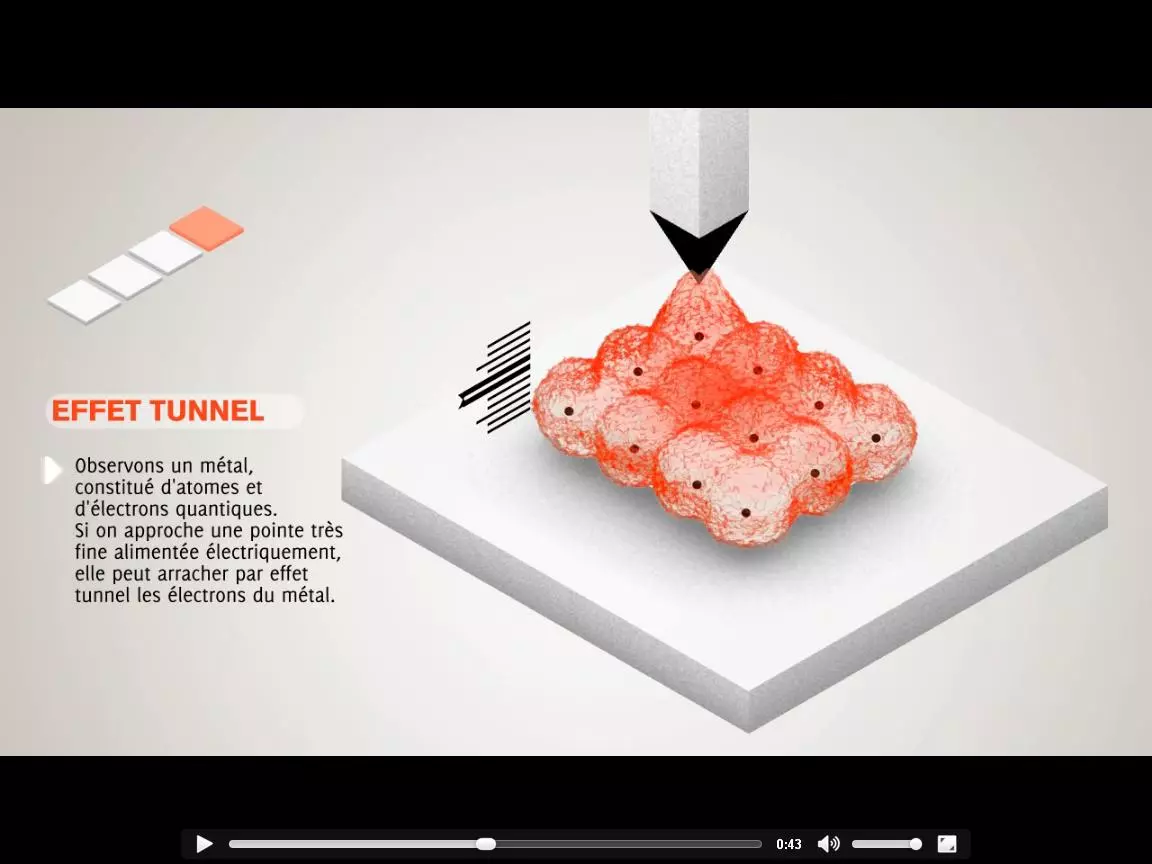
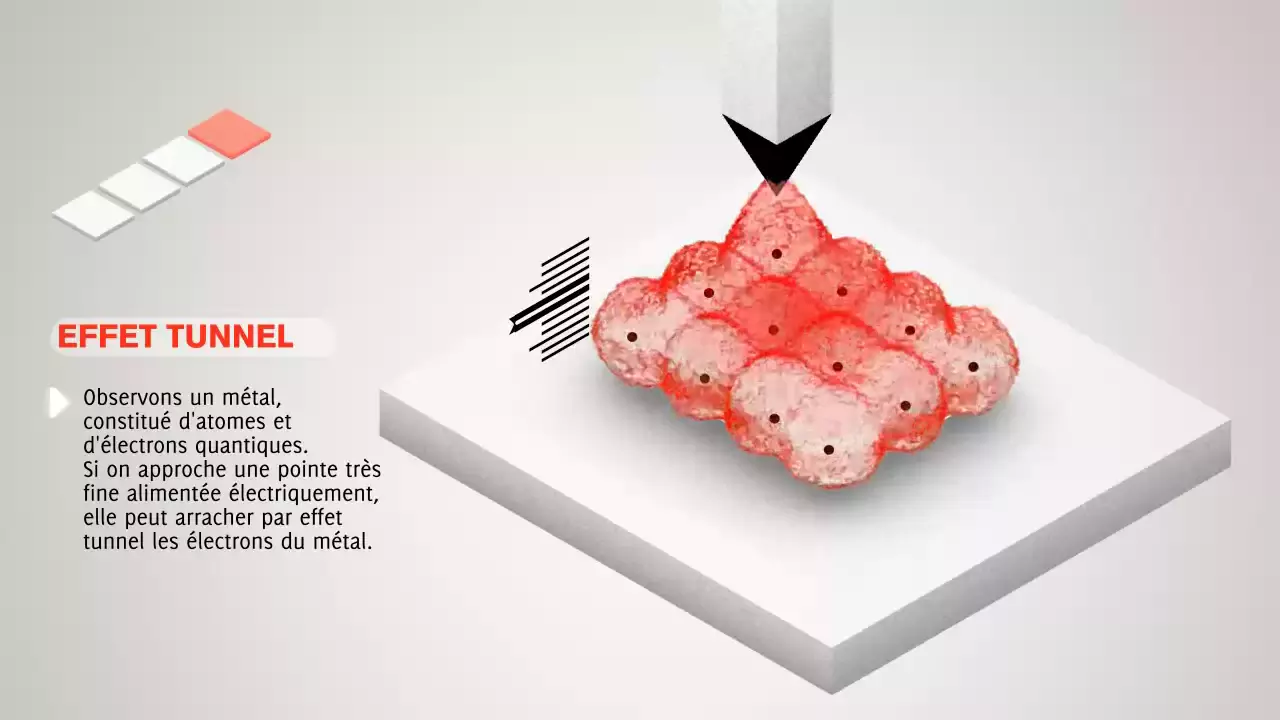
20 novembre 2015: travail sur l'émulsion d'huile dans de l'eau
Liste de matériel pour l'expérience:
* de l'eau + colorant bleu
* de l'huile
* un bécher
* une pipette graduée + pro-pipette
* une burette
* un agitateur magnétique
* microscope + caméra
* une pipette
* lame micrométrique

Protocole expérimental:
* Placer la partie mobile de l'agitateur magnétique dans le bécher
* Prélever `20,0 mL` d'eau à l'aide d'une pipette graduée, les déposer dans le bécher.
* En utilisant la burette, ajouter dans le bécher `2,50 mL` d'huile.
* On met en marche l'agitateur magnétique à une vitesse importante afin d'émulsionner le mélange hétérogène.
* Avec la pipette, prélever quelques gouttes de l'émulsion et les déposer sur la lame micrométrique.
* Observation au microscope de la lame micrométrique : prise de photos mettant en évidence l'échelle micrométrique des gouttes d'huile.

Changements apportés à la présentation:
* la police pour le texte est maintenant `Roboto`.
* les chemins d'accès sont maintenant relatifs et non absolus, pour permettre à la présentation de fonctionner sans serveur web.
* les images présentant le microscope à effet tunnel ont été retravaillées pour une meilleure expérience visuelle.
* les fichiers de police (`.woff2`) sont chargés via le CDN de Google (fonts.googleapis.com).

==> Objectif pour le 27/11/15 : contacter le Dr Fattal, réaliser l'expérience.

diff --git a/app/index.html b/app/index.html
@@ -3,12 +3,15 @@
 <head>
 	<meta http-equiv="Content-encoding" charset="utf-8"/>
 	<meta name="viewport" content="width=device-width,initial-scale=1"/>
-	<link rel="author" href="../README.md"/>
-	<link rel="stylesheet" href="/bower_components/material-design-lite/material.min.css"/>
-	<link rel="stylesheet" href="/bower_components/bootstrap/dist/css/bootstrap.min.css"/>
-	<script src="/bower_components/material-design-lite/material.min.js"></script>
+	<link rel="stylesheet" href="bower_components/material-design-lite/material.min.css"/>
+	<link rel="stylesheet" href="bower_components/bootstrap/dist/css/bootstrap.min.css"/>
+	<link rel="stylesheet" href='https://fonts.googleapis.com/css?family=Roboto'>
+	<script src="bower_components/material-design-lite/material.min.js"></script>
 	<title>TPE - Les nanotechnologies</title>
 	<style>
+body {
+	font-family: "Roboto", "Helvetica";
+}
 .quarante {
 	margin-top: 16px;
 	margin-right: 16px;
@@ -21,7 +24,7 @@
 .nanoparticules-dor {
 	height: 438px;
 	color: white;
-	background: url("/img/nanoparticules_dor.webp") center / cover;
+	background: url("img/nanoparticules_dor.webp") center / cover;
 }
 	</style>
 </head>
@@ -48,6 +51,8 @@
 						<div class="mdl-card__supporting-text">
 							<p class="quarante">40</p>
 							<p><b>instituts</b> mènent des recherches sur les nanotechnologies en France. on peut compter parmi cela l’Ecole Normale Supérieure ou l’Inserm. Les nano-particules seraient même présentes dans près de 1000 produits de consommation aujourd’hui en France.</p>
+						</div>
+						<div class="mdl-card__actions mdl-card--border">
 							<p><b>Source :</b> Banque d'Informations sur les Recherches - <a href="http://bir.inserm.fr">bis.inserm.fr</a></p>
 						</div>
 					</div>
@@ -61,6 +66,8 @@
 						</div>
 						<div class="mdl-card__supporting-text">
 							<p>Les nanotechnologies sont l’ensemble des domaines d’étude scientifiques et de fabrication de structures à l’échelle du nanomètre (de 1 à 1000 nm), c'est-à-dire à l’échelle atomique. Ces structures sont appelées nano-objets.  </p>
+						</div>
+						<div class="mdl-card__actions mdl-card--border">
 							<p><b>Source :</b> Encyclopédie Larousse - <a href="http://larousse.fr">larousse.fr</a></p>
 						</div>
 					</div>
@@ -76,27 +83,27 @@
 							<div id="carousel" class="carousel slide" data-ride="carousel">
 								<div class="carousel-inner" role="listbox">
 									<div class="item active">
-										<img src="/img/microscope_rebond.webp">
+										<img src="img/microscope_rebond.webp">
 									</div>
 									<div class="item">
-										<img src="/img/microscope_traverse.webp"/>
+										<img src="img/microscope_traverse.webp"/>
 									</div>
 									<div class="item">
-										<img src="/img/microscope_arrache.webp"/>
+										<img src="img/microscope_arrache.webp"/>
 									</div>
 									<div class="item">
-										<img src="/img/microscope_image.webp"/>
+										<img src="img/microscope_image.webp"/>
 									</div>
 								</div>
 								<a class="left carousel-control" href="#carousel" role="button" data-slide="prev">
-									<span class="glyphicon glyphicon-chevron-left" aria-hidden="true"></span>
-									<span class="sr-only">Previous</span>
+									<span class="glyphicon glyphicon-chevron-left"></span>
 								</a>
 								<a class="right carousel-control" href="#carousel" role="button" data-slide="next">
-									<span class="glyphicon glyphicon-chevron-right" aria-hidden="true"></span>
-									<span class="sr-only">Next</span>
+									<span class="glyphicon glyphicon-chevron-right"></span>
 								</a>
 							</div>
+						</div>
+						<div class="mdl-card__actions mdl-card--border">
 							<p><b>Source :</b> Animation par Jubobroff (Travail personnel) [CC BY-SA 3.0 (<a href="http://creativecommons.org/licenses/by-sa/3.0">http://creativecommons.org/licenses/by-sa/3.0</a>)], via Wikimedia Commons</p>
 						</div>
 					<div class="mdl-cell mdl-cell--1-col"></div>
@@ -111,6 +118,8 @@
 						</div>
 						<div class="mdl-card__supporting-text">
 							<p>Une maladie est une altération physique ou mentale d'un être vivant dont la cause est connue, par oppoisition au mot syndrome.</p>
+						</div>
+						<div class="mdl-card__actions mdl-card--border">
 							<p><b>Source :</b> Encyclopédie Larousse - <a href="http://larousse.fr">larousse.fr</a></p>
 						</div>
 					</div>
@@ -126,6 +135,8 @@
 						</div>
 						<div class="mdl-card__supporting-text">
 							<p>Ces nanoparticules d'or radioactives, produites par le réacteur de recherche de l'université de Missouri-Columbia ont été utilisées dans une expérience visant à mettre au point un traitement pour détruire des cellules cancéreuses.</p>
+						</div>
+						<div class="mdl-card__actions mdl-card--border">
 							<p><b>Source :</b> Article de Jean-Luc Nothias - <a href="http://sante.lefigaro.fr/actualite/2012/07/16/18647-nanoparticules-dor-contre-cancer-prostate">sante.lefigaro.fr</a></p>
 						</div>
 					</div>
@@ -139,11 +150,11 @@
 						<div class="mdl-card__title">
 							<h1 class="mdl-card__title-text">Recherches Google concernant les nanotechnologies (2005 - 2015)</h1>
 						</div>
-						<div class="mdl-card__media">
-							<img src="/img/risques_trends_nanotechnologies.webp"/>
-						</div>
 						<div class="mdl-card__supporting-text">
+							<img src="img/risques_trends_nanotechnologies.webp"/>
 							<p>L'intérêt du public se fait moindre envers les nanotechnologies. Les lettres marquent la publication d'articles corrélés avec la courbe.</p>
+						</div>
+						<div class="mdl-card__actions mdl-card--border">
 							<p><b>Source :</b> Google Trends - <a href="https://trends.google.com">https://trends.google.com</a></p>
 						</div>
 					</div>
@@ -159,12 +170,12 @@
 				<p>&copy; 2015 - Guillaume Ricard &lt;<a href="mailto:guillaume.ricard@mail.com">guillaume.ricard@mail.com</a>&gt;, Josselin Doc &lt;<a href="mailto:josselin.doc@gmail.com">josselin.doc@gmail.com</a>&gt;</p>
 			</div>
 			<div class="mdl-mini-footer__right-section">
-				<button class="mdl-mini-footer__social-btn"><a target="_blank" href="http://www.lyc-timbaud-bretigny.fr"><img src="/img/logo.webp" alt="Lycée Jean-Pierre Timbaud"/></a></button>
+				<button class="mdl-mini-footer__social-btn"><a target="_blank" href="http://www.lyc-timbaud-bretigny.fr"><img src="img/logo.webp" alt="Lycée Jean-Pierre Timbaud"/></a></button>
 			</div>
 		</footer>
 	</div>
-	<script src="/bower_components/jquery/dist/jquery.min.js"></script>
-	<script src="/bower_components/bootstrap/dist/js/bootstrap.min.js"></script>
+	<script src="bower_components/jquery/dist/jquery.min.js"></script>
+	<script src="bower_components/bootstrap/dist/js/bootstrap.min.js"></script>
 	<script>
 		$("#carousel").carousel({interval: false, wrap: false});
 	</script>
